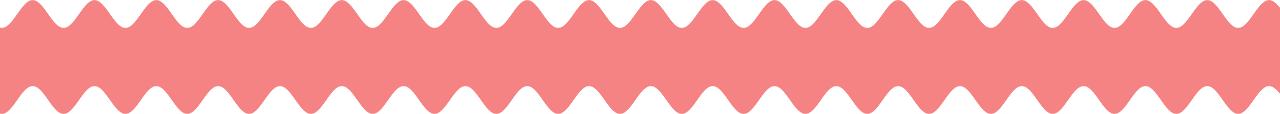
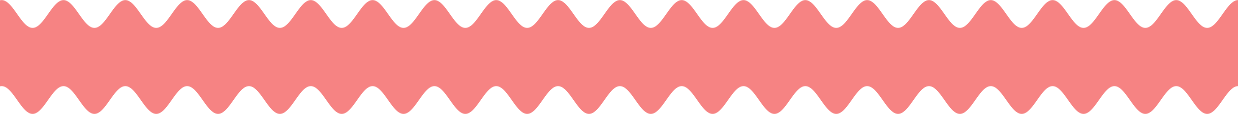
a little left

diff --git a/2017Spring/html/index_2.html b/2017Spring/html/index_2.html
@@ -2,37 +2,139 @@
 <html lang="en">
 <head>
     <meta charset="UTF-8">
+    <meta name="viewport" content="width=device-width, initial-scale=1">
     <title>Title</title>
+    <link rel="stylesheet" type="text/css" href="../css/style.css">
+    <!-- Latest compiled and minified CSS -->
+    <link rel="stylesheet" href="https://maxcdn.bootstrapcdn.com/bootstrap/3.3.7/css/bootstrap.min.css">
+    <!-- jQuery library -->
+    <script src="https://ajax.googleapis.com/ajax/libs/jquery/3.1.1/jquery.min.js"></script>
+    <!-- Latest compiled JavaScript -->
+    <script src="https://maxcdn.bootstrapcdn.com/bootstrap/3.3.7/js/bootstrap.min.js"></script>
 </head>
 <body>
 
-<div>
-    <h4>Showcase</h4>
-    <div><hr/>></div>
-    <table>
-        <tr>
-            <td>
+<div class="showcase">
+    <div class="container text-center">
+        <div class="showcase-head">
+            <h2>Showcase</h2>
+            <div><hr></div>
+        </div>
+        <div class="photos">
+            <div class="photo-wrapper">
+                <div class="photo-theme">
+                    <h3>- Salon -</h3>
+                    <p>每周一次，分享技术或有趣的生活经历~</p>
+                </div>
                 <img src="../img/salon.png">
-            </td>
-            <td>
+            </div>
+            <div class="photo-wrapper">
+                <div class="photo-theme">
+                    <h3>- Free Talk -</h3>
+                    <p>扁平化的组织结构，让大家不论资历，都可以对项目和工作室提出自己的想法~</p>
+                </div>
                 <img src="../img/freeTalk.png">
-            </td>
-            <td>
+            </div>
+            <div class="photo-wrapper">
+                <div class="photo-theme">
+                    <h3>- Predecessors -</h3>
+                    <p>小百合前辈们遍布南大各专业、BAT等国内企业和世界各地的名校，给你指导给你爱~</p>
+                </div>
                 <img src="../img/predecessors.png">
-            </td>
-        </tr>
-        <tr>
-            <td>
+            </div>
+            <div class="photo-wrapper">
+                <div class="photo-theme">
+                    <h3>- Project -</h3>
+                    <p>以技术搭起桥梁，使得新人能够轻松上手技术，大家迅速地互相熟悉起来~</p>
+                </div>
                 <img src="../img/project.png">
-            </td>
-            <td>
+            </div>
+            <div class="photo-wrapper">
+                <div class="photo-theme">
+                    <h3>- Hang Out -</h3>
+                    <p>大家一起刷夜写过代码准备过考试，也一起刷过首映浪浪浪！更有一晚上吃三顿的经历_(:зゝ∠)_</p>
+                </div>
                 <img src="../img/hangOut.png">
-            </td>
-            <td>
+            </div>
+            <div class="photo-wrapper">
+                <div class="photo-theme">
+                    <h3>- Couple -</h3>
+                    <p>小百合，一个脱单率高于百合网的神奇工作室~</p>
+                </div>
                 <img src="../img/couple.png">
-            </td>
-        </tr>
-    </table>
+            </div>
+        </div>
+    </div>
+</div>
+<div class="page-border"></div>
+<div class="depart">
+    <div class="container text-center">
+        <div class="depart-head">
+            <p>我们期待热爱互联网技术的你<br>无论技术宅还是技术帝<br>无论你是有节操还是没节操 只有你想不到 没有你做不到</p>
+        </div>
+        <div class="leader-group">
+            <div class="leader">
+                <img src="../img/head_li.png">
+                <h2>技术组</h2>
+                <hr>
+                <h4>现任负责人 - XXX</h4>
+                <p>负责产品的代码实现<br>熟悉iOS或者Android开发或者Web后端的<br>代码实现以及服务器的维护使用</p>
+            </div>
+            <div class="leader">
+                <img src="../img/head_c.png">
+                <h2>美工组</h2>
+                <hr>
+                <h4>现任负责人 - XXX</h4>
+                <p>负责产品界面、交互设计，<br>以及前端代码的实现<br>熟悉平面设计，及HTML/CSS/JS等语言</p>
+            </div>
+            <div class="leader">
+                <img src="../img/head_z.png">
+                <h2>策划组</h2>
+                <hr>
+                <h4>现任负责人 - XXX</h4>
+                <p>负责产品需求制定和后期跟进，<br>以及工作室日常事务<br>对产品有一定热情，对技术有适当了解</p>
+            </div>
+        </div>
+    </div>
+</div>
+<div class="page-border"></div>
+<div class="join">
+    <div class="container text-center">
+        <div class="join-head">
+            <h2>Join us</h2>
+            <hr>
+            <p>Come on. Just stay with us.</p>
+        </div>
+        <div class="info">
+            <div class="join-left">
+                <form class="fill-info">
+                    <label for="name">*姓名</label>
+                    <input type="text" id="name" name="name">
+                    <label for="number">*学号</label>
+                    <input type="text" id="number" name="number">
+                    <label for="email">*邮箱</label>
+                    <input type="text" id="email" name="email">
+                    <label for="phone">*手机</label>
+                    <input type="text" id="phone" name="phone">
+                    <label>*意愿</label>
+                    <select id="group" name="depart">
+                        <option>技术组</option>
+                        <option>美工组</option>
+                        <option>策划组</option>
+                    </select>
+                </form>
+            </div>
+            <div class="join-right">
+                <form class="fill-info">
+                    <label for="name">个人经历</label>
+                    <textarea id="intro" name="expr"></textarea>
+                    <label for="name">兴趣爱好</label>
+                    <textarea id="hobby" name="hobby"></textarea>
+                </form>
+            </div>
+            <input type="submit" class="submit-btn" id="submit" value="提交">
+        </div>
+    </div>
 </div>
 
 </body>

diff --git a/2017Spring/css/style.css b/2017Spring/css/style.css
@@ -1,0 +1,172 @@
+* {
+    padding: 0;
+    margin: 0;
+}
+
+/*showcase*/
+.showcase {
+    padding: 50px 0;
+    width: 100%;
+    background: url("../img/card.png") center;
+    background-size: cover;
+}
+.showcase h2 {
+    color: #f68383;
+    font-size: 40px;
+}
+.showcase-head hr {
+    height: 2px;
+    background-color: #f68383;
+    border: 0px;
+}
+.showcase img {
+    box-shadow: 0 1px 3px 0 rgba(0,0,0,0.2);
+}
+.photos {
+    margin: 0 0 50px 0;
+}
+.photo-wrapper {
+    display: inline-block;
+    *display: inline;
+    zoom: 1;
+    vertical-align: top;
+    width: 208px;
+    height: 208px;
+    margin: 40px;
+    text-align: center;
+    overflow: hidden;
+    border: solid 1px #fff;
+}
+.photo-theme {
+    position: relative;
+    opacity: 0.6;
+    width: 208px;
+    height: 104px;
+    text-align: center;
+    margin-left: -1px;
+    overflow: hidden;
+    top: 80%;
+    background-color: #000000;
+    -webkit-transition: .6s;
+    -moz-transition: .6s;
+    -o-transition: .6s;
+    transition: .6s;
+}
+.photo-theme p {
+    color: #e6e6e6;
+    margin-right: 10px;
+    margin-left: 10px;
+    opacity: 1;
+}
+.photo-theme h3 {
+    color: #fefefe;
+    margin-top: 5px;
+    margin-right: 10px;
+    margin-left: 10px;
+    opacity: 1;
+}
+.photo-wrapper:hover .photo-theme {
+    top: 50%;
+}
+.photo-wrapper img {
+    margin-top: -104px;
+}
+
+/*department*/
+.depart {
+    background-color: #f68383;
+    color: white;
+}
+.depart-head p {
+    font-size: 24px;
+    margin-bottom: 40px;
+}
+.leader {
+    display: inline-block;
+    margin: 50px;
+}
+.leader h4 {
+    margin-bottom: 20px;
+}
+
+/*join us*/
+.join {
+    width: 100%;
+    background: url("../img/card.png") center;
+    background-size: cover;
+}
+.join-head {
+    margin-top: 150px;
+}
+.join-head h2 {
+    color: #f68383;
+    font-size: 40px;
+}
+.join-head hr {
+    height: 2px;
+    border: 0px;
+    background-color: #f68383;
+}
+.join-head p {
+    font-size: 20px;
+}
+.join-left, .join-right {
+    float: left;
+    margin-top: 50px;
+    width: 45%;
+}
+.join-left {
+    padding-right: 10%;
+}
+.fill-info label {
+    display: block;
+    padding-bottom: 5px;
+    text-align: left;
+}
+.fill-info input[type=text], .fill-info select, .fill-info textarea {
+    display: block;
+    width: 100%;
+    margin-bottom: 20px;
+    padding: 10px;
+    border-color: #f68383;
+    border-bottom-width: 1px;
+    -webkit-border-radius: 5px; /* Safari 和 Chrome */
+    -moz-border-radius: 5px; /* Firefox */
+    border-radius: 5px;
+    -webkit-box-sizing: border-box;
+    -moz-box-sizing: border-box;
+    box-sizing: border-box;
+}
+.fill-info select {
+    height: 40px;
+    width: 100%;
+}
+.fill-info textarea {
+    height: 180px;
+}
+.submit-btn {
+    width: 120px;
+    height: 50px;
+    padding: 10px 20px;
+    border: none;
+    cursor: pointer;
+    font-size: 20px;
+    z-index: 3;
+    float: right;
+    background-color: #f68383;
+    -webkit-border-radius: 10px; /* Safari 和 Chrome */
+    -moz-border-radius: 10px; /* Firefox */
+    border-radius: 10px;
+    -webkit-transition: .6s;
+    -moz-transition: .6s;
+    -o-transition: .6s;
+    transition: .6s;
+}
+
+
+/*other*/
+.page-border {
+    margin-top: -30px;
+    height: 80px;
+    background: url("../img/pageBorder.png");
+}
